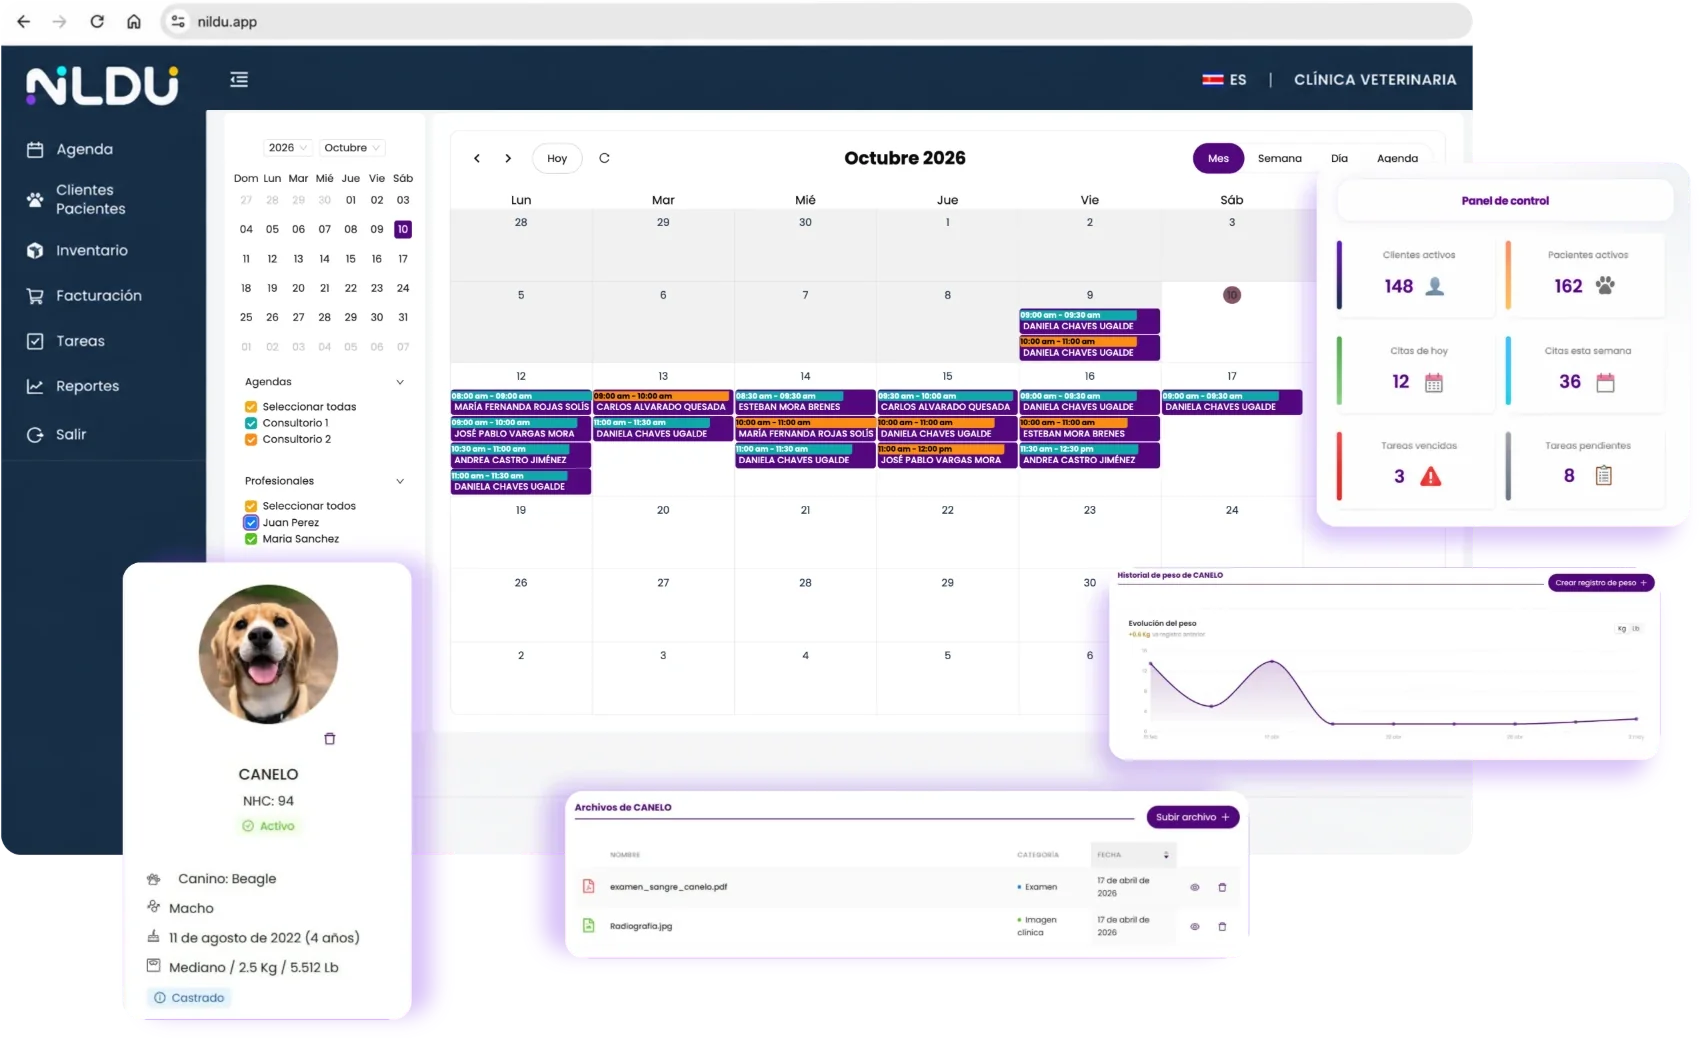
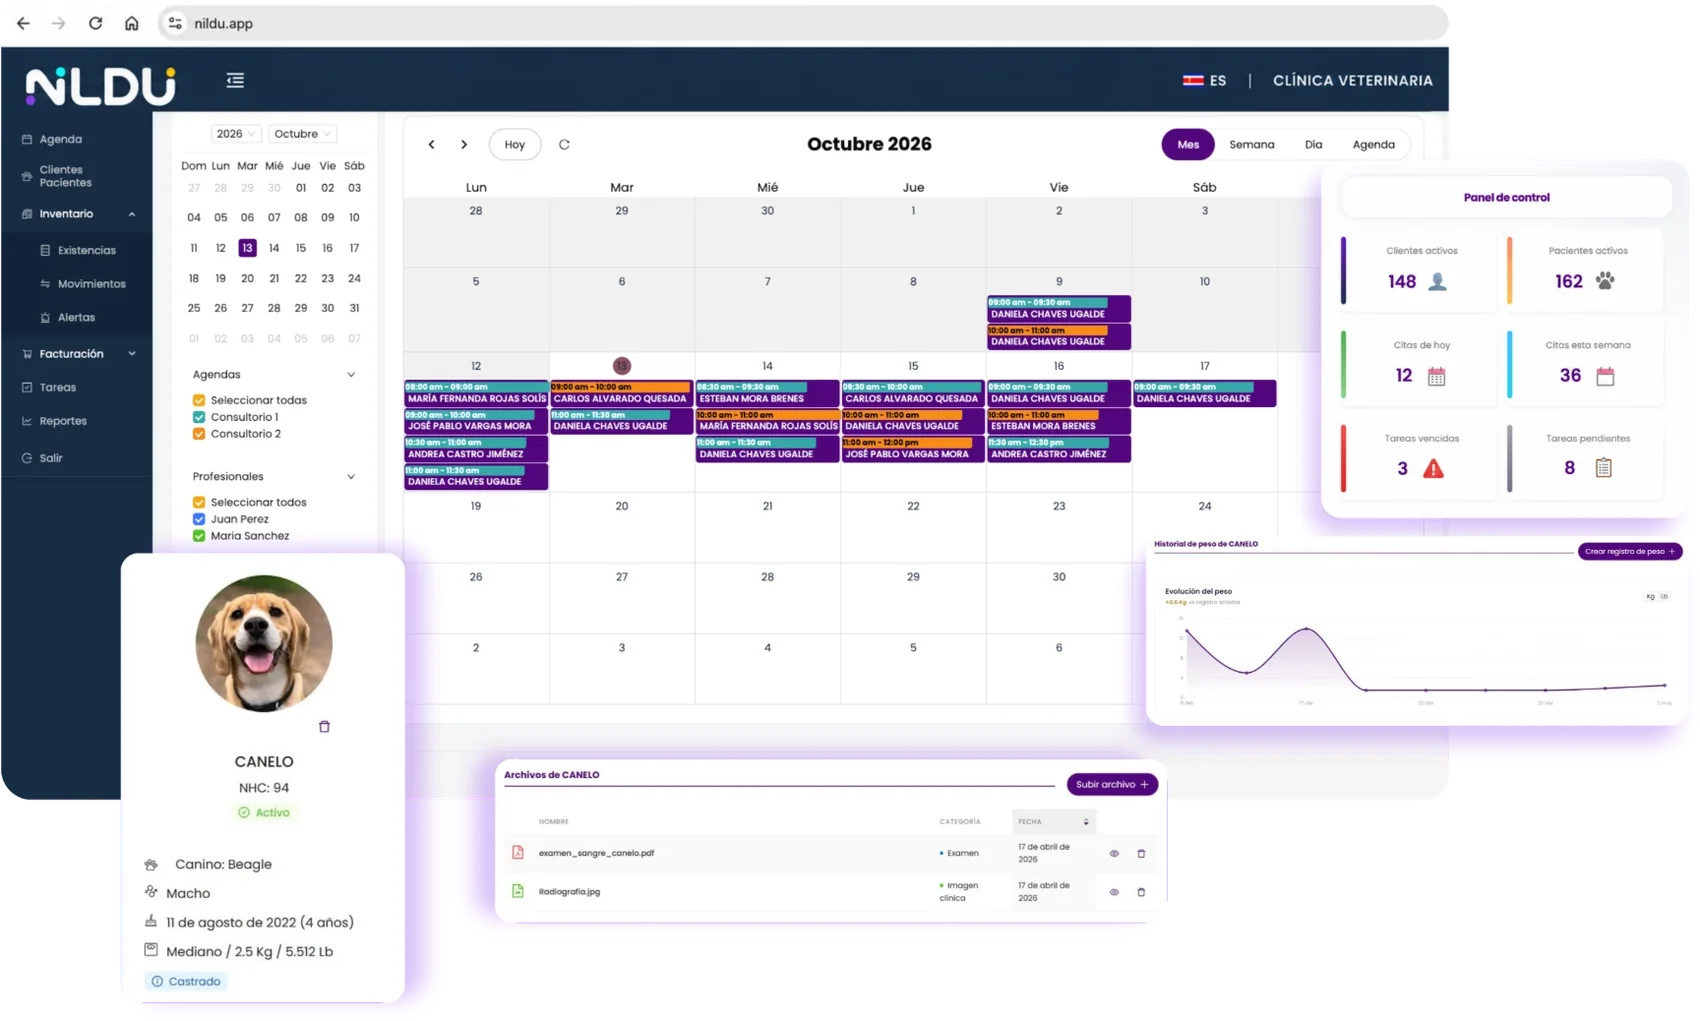
Use the new hero composites in Spanish and English
Steve's new composites replace the hero: one in Spanish and one with
the portal in English, shown by language. Both are cropped to the
same 1700x1021 (the Spanish one is wider, so the old 1700x1038 crop
would cut its dashboard); the English one is centered in that width.
Each gets 800 and 1200 px versions, and og.png is rebuilt from the
new Spanish hero.

diff --git a/src/components/HeroSection.tsx b/src/components/HeroSection.tsx
@@ -1,6 +1,9 @@
 import hero from "@/assets/screens/hero/hero.webp";
 import hero800 from "@/assets/screens/hero/hero-800.webp";
 import hero1200 from "@/assets/screens/hero/hero-1200.webp";
+import heroEn from "@/assets/screens/hero/hero-en.webp";
+import heroEn800 from "@/assets/screens/hero/hero-en-800.webp";
+import heroEn1200 from "@/assets/screens/hero/hero-en-1200.webp";
 import { useLang } from "@/lib/i18n";
 import { primaryButton } from "@/lib/styles";
 
@@ -12,6 +15,7 @@ const textos = {
     demo: "Agenda una demo",
     precios: "Ver precios →",
     alt: "Nildu con la agenda de octubre, el panel de control, la ficha de Canelo, su curva de peso y sus archivos",
+    img: [hero, hero800, hero1200],
   },
   en: {
     etiqueta: "SOFTWARE FOR VETERINARY PRACTICES",
@@ -20,12 +24,14 @@ const textos = {
     demo: "Book a demo",
     precios: "See pricing →",
     alt: "Nildu with the October schedule, the dashboard, Canelo's record, his weight curve and his files",
+    img: [heroEn, heroEn800, heroEn1200],
   },
 };
 
 const HeroSection = () => {
   const [lang] = useLang();
   const t = textos[lang];
+  const [grande, de800, de1200] = t.img;
 
   return (
     <section id="inicio" className="scroll-mt-20">
@@ -45,13 +51,13 @@ const HeroSection = () => {
         </div>
 
         <img
-          src={hero}
-          srcSet={`${hero800} 800w, ${hero1200} 1200w, ${hero} 1700w`}
+          src={grande}
+          srcSet={`${de800} 800w, ${de1200} 1200w, ${grande} 1700w`}
           sizes="(min-width: 1088px) 1040px, calc(100vw - 32px)"
           fetchPriority="high"
           alt={t.alt}
           width={1700}
-          height={1038}
+          height={1021}
           className="mx-auto mt-14 block h-auto w-full max-w-[1040px]"
         />
       </div>

diff --git a/scripts/hero-screens.py b/scripts/hero-screens.py
@@ -15,7 +15,9 @@ OUT = SCREENS / "hero"
 # (archivo origen, carpeta destino, archivo destino, recorte (izq, arriba, der, abajo) o None, ancho final, calidad WebP)
 JOBS = [
     # Hero: composición armada por Steve (agenda, panel, ficha, peso y archivos) con fondo transparente; se recorta al contenido.
-    ("hero-compuesto.webp", OUT, "hero.webp", (192, 62, 1892, 1100), 1700, 84),
+    # Las dos versiones quedan del mismo tamaño; la de inglés es más angosta y se centra dentro del mismo ancho.
+    ("hero-compuesto.webp", OUT, "hero.webp", (192, 62, 1920, 1100), 1700, 84),
+    ("en/hero-compuesto.webp", OUT, "hero-en.webp", (154, 62, 1882, 1100), 1700, 84),
     # Pestaña Agenda de la sección de módulos: sin recorte, a 1440 de ancho, como consulta.webp y fiscal.webp.
     ("modulo-agenda-semana.png", SCREENS / "modulos", "agenda.webp", None, 1440, 82),
     # Inventario: Existencias del demo, sin la barra de scroll de la derecha.
@@ -52,11 +54,12 @@ def main() -> None:
             img.resize((720, round(img.height * 720 / img.width)), Image.LANCZOS).save(small, "WEBP", quality=quality, method=6)
 
     # Versiones más angostas del hero para el srcset: los celulares no bajan la de 1700.
-    hero = Image.open(OUT / "hero.webp")
-    for width in (800, 1200):
-        target = OUT / f"hero-{width}.webp"
-        hero.resize((width, round(hero.height * width / hero.width)), Image.LANCZOS).save(target, "WEBP", quality=84, method=6)
-        print(f"{target.name}: {target.stat().st_size // 1024} KB")
+    for name in ("hero", "hero-en"):
+        hero = Image.open(OUT / f"{name}.webp")
+        for width in (800, 1200):
+            target = OUT / f"{name}-{width}.webp"
+            hero.resize((width, round(hero.height * width / hero.width)), Image.LANCZOS).save(target, "WEBP", quality=84, method=6)
+            print(f"{target.name}: {target.stat().st_size // 1024} KB")
 
     og = Image.new("RGB", (1200, 630), "white")
     mark = Image.open(ROOT / "src" / "assets" / "brand" / "wordmark.png").convert("RGBA")
